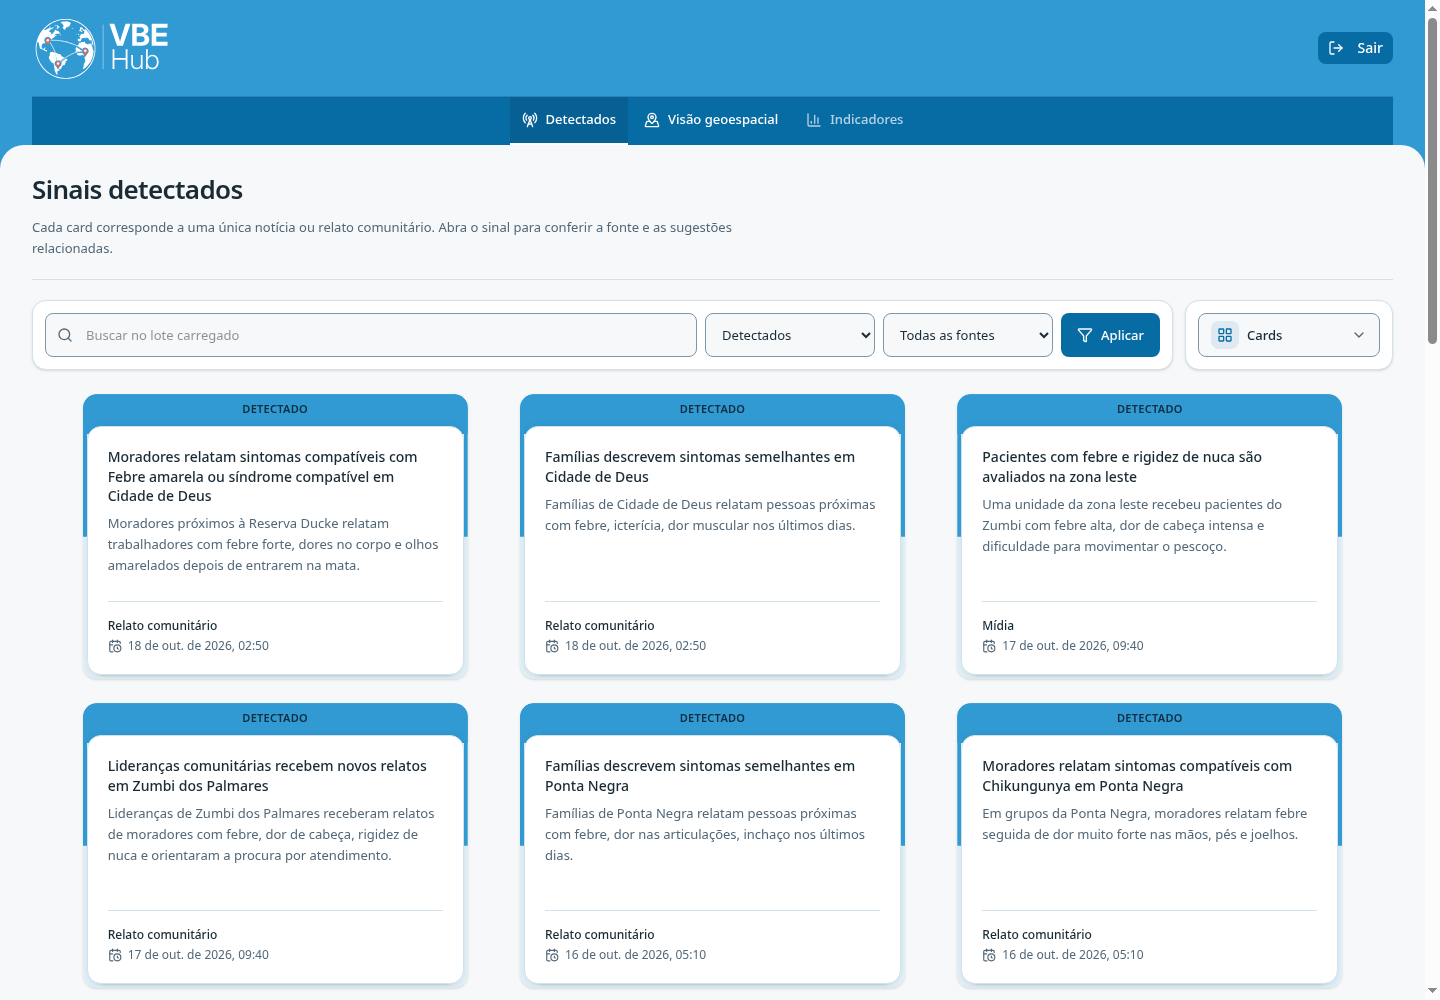
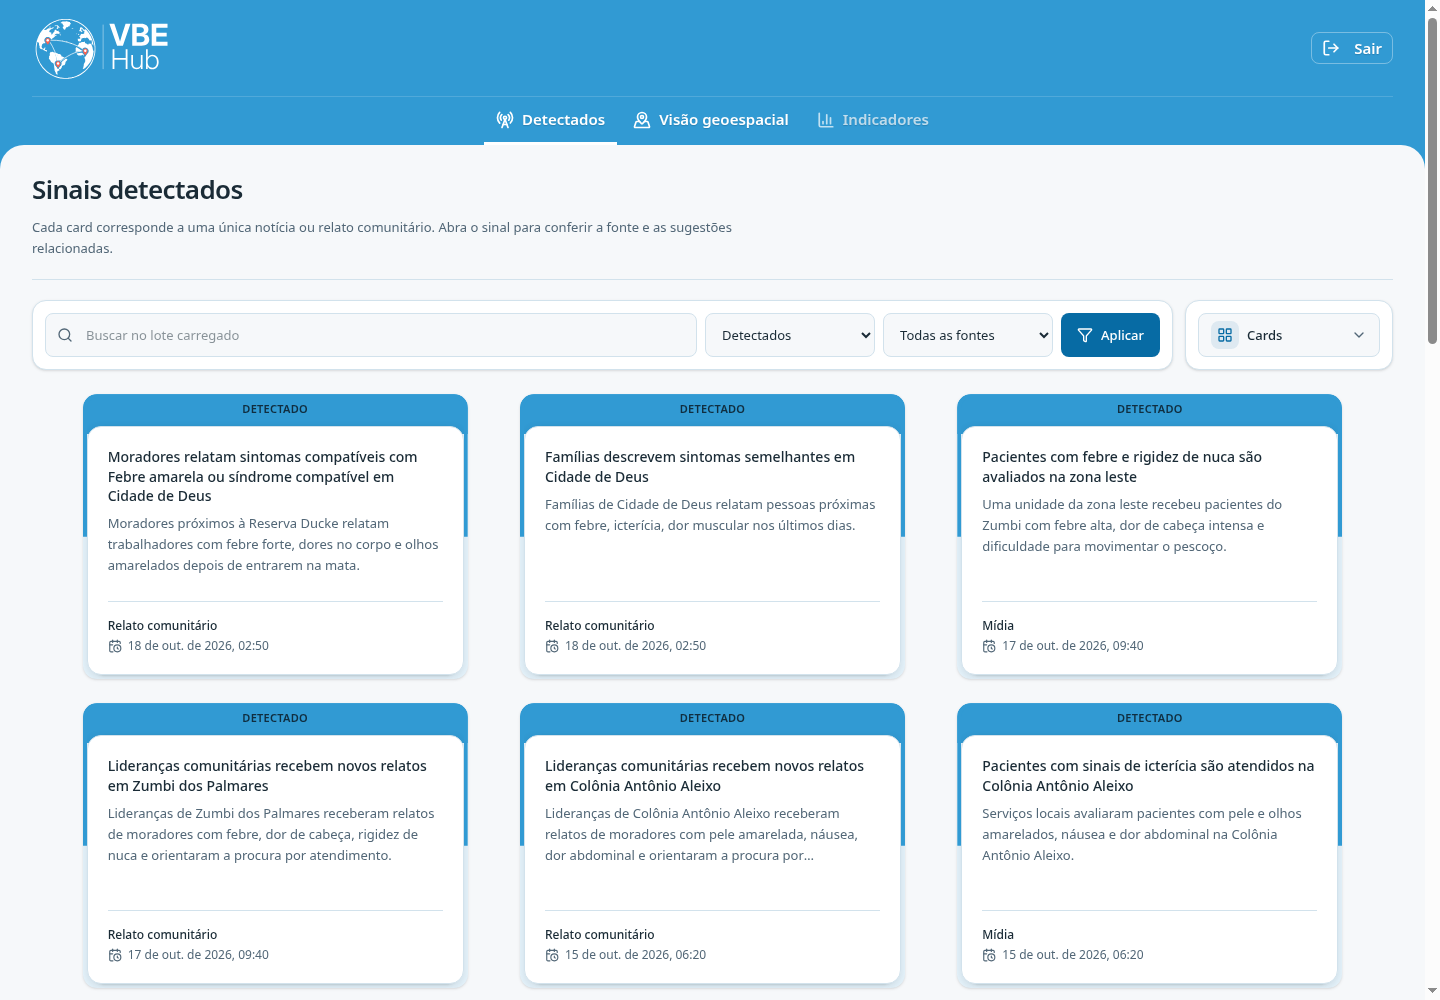
fix(frontend): reforcar definicao visual da navegacao refs #92

diff --git a/frontend/v0/components/header.tsx b/frontend/v0/components/header.tsx
@@ -32,22 +32,22 @@ export function Header() {
               aria-label="Sair do ambiente de demonstração"
               variant="ghost"
               size="sm"
-              className="text-white hover:bg-white/15 hover:text-white focus-visible:ring-white"
+              className="border border-white/35 text-[15px] font-semibold text-white [text-shadow:0_1px_1px_rgba(8,54,83,0.24)] hover:border-white/60 hover:bg-white/10 hover:text-white focus-visible:ring-white"
             >
-              <LogOut className="w-4 h-4 mr-2" />
+              <LogOut className="size-[18px] mr-2" strokeWidth={2.25} aria-hidden />
               <span className="hidden sm:inline">Sair</span>
             </Button>
           </div>
         </div>
 
-        <nav aria-label="Visões do sistema" className="flex min-h-12 items-end justify-center gap-1 overflow-x-auto border-t border-white/15 px-2">
+        <nav aria-label="Visões do sistema" className="flex min-h-12 items-end justify-center gap-1 overflow-x-auto border-t border-white/15 px-2 [text-shadow:0_1px_1px_rgba(8,54,83,0.24)]">
           <HeaderLink href="/" icon={RadioTower} active={detectedActive}>Detectados</HeaderLink>
           <HeaderLink href="/panorama" icon={MapPinned} active={panoramaActive}>Visão geoespacial</HeaderLink>
           <span
             aria-disabled="true"
-            className="inline-flex min-h-12 shrink-0 cursor-not-allowed items-center gap-2 border-b-2 border-transparent px-3 text-[13px] font-medium text-white/70"
+            className="inline-flex min-h-12 shrink-0 cursor-not-allowed items-center gap-2 border-b-[3px] border-transparent px-3 text-[15px] font-semibold text-white/70"
           >
-            <BarChart3 className="size-4" aria-hidden />
+            <BarChart3 className="size-[18px]" strokeWidth={2.25} aria-hidden />
             Indicadores
           </span>
         </nav>
@@ -61,9 +61,9 @@ function HeaderLink({ href, icon: Icon, active, children }: { href: string; icon
     <Link
       href={href}
       aria-current={active ? "page" : undefined}
-      className={`inline-flex min-h-12 shrink-0 items-center gap-2 border-b-2 px-3 text-[13px] font-medium text-white hover:border-white hover:bg-white/15 focus-visible:outline-none focus-visible:ring-2 focus-visible:ring-inset focus-visible:ring-white ${active ? "border-white bg-white/15" : "border-transparent"}`}
+      className={`inline-flex min-h-12 shrink-0 items-center gap-2 border-b-[3px] px-3 text-[15px] font-semibold text-white focus-visible:outline-none focus-visible:ring-2 focus-visible:ring-inset focus-visible:ring-white ${active ? "border-white" : "border-transparent hover:border-white/60"}`}
     >
-      <Icon className="size-4" aria-hidden />
+      <Icon className="size-[18px]" strokeWidth={2.25} aria-hidden />
       {children}
     </Link>
   )

diff --git a/frontend/v0/components/header.test.tsx b/frontend/v0/components/header.test.tsx
@@ -24,7 +24,13 @@ describe('Header', () => {
     expect(html).not.toContain('rounded-b-')
     expect(html).toContain('pb-6')
     expect(html).toContain('aria-current="page"')
-    expect(html).toContain('border-white bg-white/15')
+    const navigation = html.slice(html.indexOf('<nav'), html.indexOf('</nav>'))
+    expect(navigation).toContain('text-[15px] font-semibold')
+    expect(navigation).toContain('border-b-[3px]')
+    expect(navigation).toContain('text-shadow:0_1px_1px_')
+    expect(navigation).toContain('stroke-width="2.25"')
+    expect(navigation).not.toContain('bg-white/')
+    expect(html).toContain('border-white/35')
     expect(html).not.toContain('bg-primary')
     expect(html).toContain('text-white')
     expect(html).not.toContain('text-[#102E40]')

diff --git a/docs/frontend.md b/docs/frontend.md
@@ -142,8 +142,10 @@ tipografia da logo; os SVGs preservam os pontos coral e não recebem filtros de 
 O azul principal é usado no header e na transição do body. `--primary` usa o azul de contraste
 para manter legibilidade de links e botões pequenos com texto branco. A navegação do header usa
 texto e ícones brancos diretamente sobre o azul principal `#319AD3`, sem faixa de outro azul,
-com marcador branco da página atual e realce branco translúcido em hover/seleção. A ação Sair
-também mantém o fundo do header. `themeColor` usa `#319AD3`. Essa composição segue a orientação
+com texto em 15 px/600, ícones de 18 px com traço 2,25 e sombra textual discreta de 1 px.
+O marcador branco da página atual tem 3 px; hover e seleção não clareiam o fundo dos links.
+A ação Sair mantém o fundo do header com contorno branco sutil. `themeColor` usa `#319AD3`.
+Essa composição segue a orientação
 visual aprovada, mas o contraste branco/azul principal de 3,14:1 fica abaixo da meta de 4,5:1
 para texto pequeno; não é apresentada como conformidade integral de contraste da navbar.
 Coral é acento da marca, não a semântica de risco/erro.
